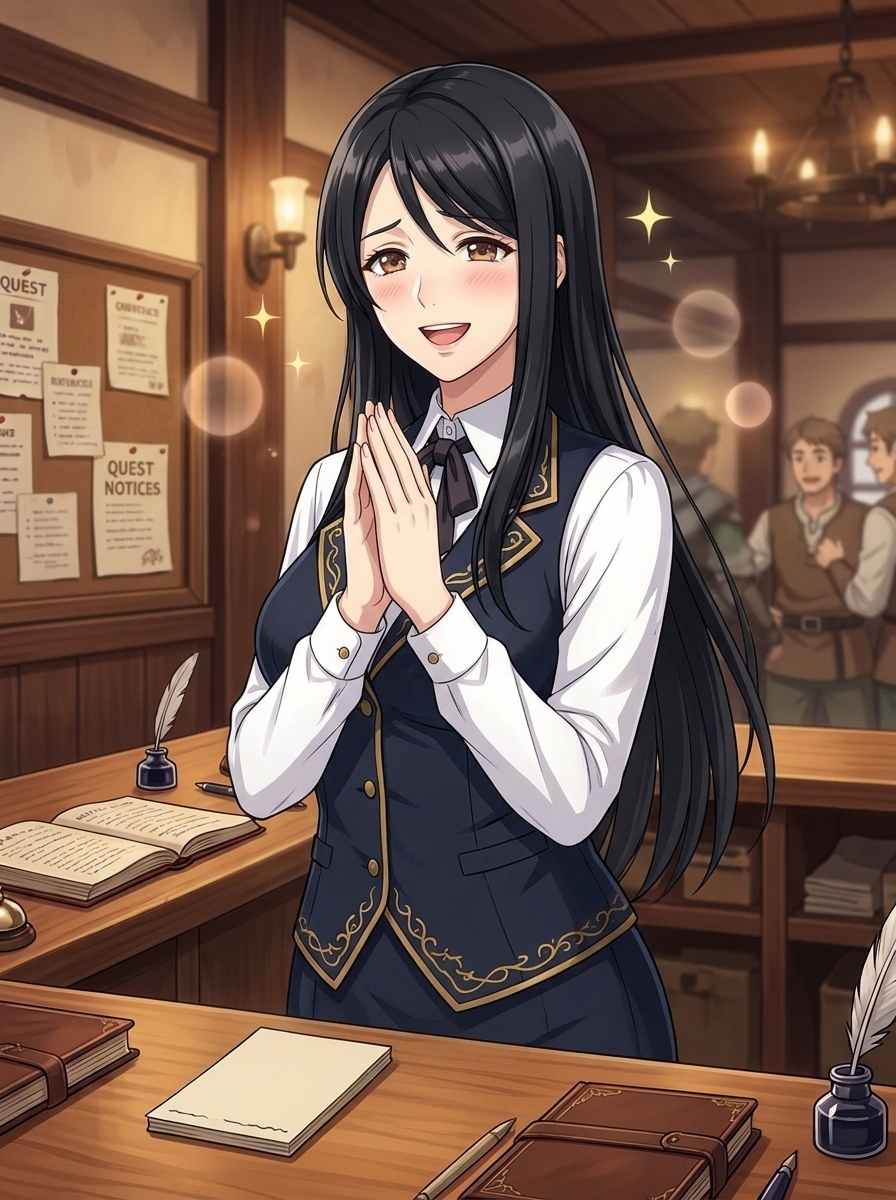
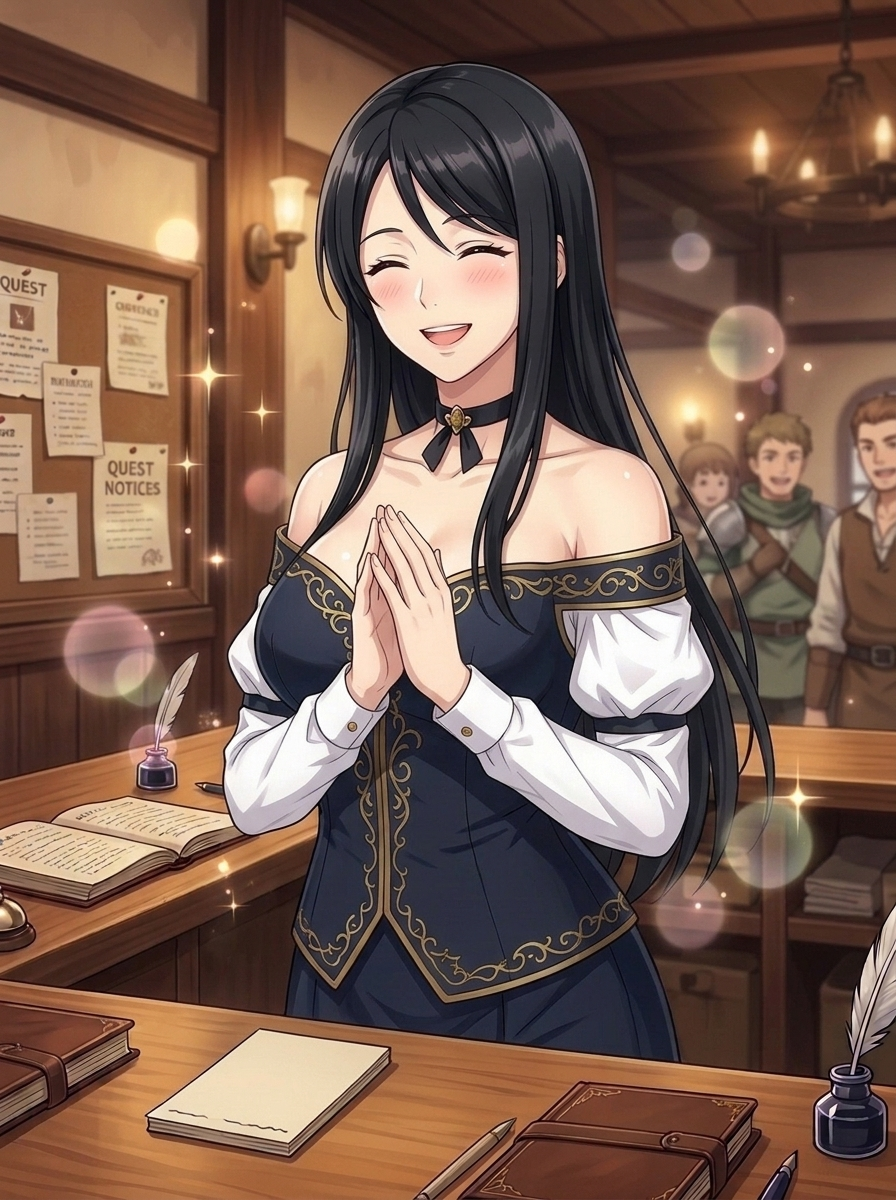
feat: redesign Shiori off-shoulder anime outfit, add speech recognition and multi-tier Gemini failover

diff --git a/js/app.js b/js/app.js
@@ -23,6 +23,24 @@ const App = {
     this.saveData = window.SyncManager.loadLocalSave();
     this.currentDayIndex = this.saveData.progress.currentDay || 1;
 
+    // 自動嘗試向本地伺服器讀取 .env 中的 API Key (本機啟動時自動免手動填入)
+    if (!this.settings.geminiApiKey) {
+      try {
+        const envRes = await fetch("/api/env-config");
+        if (envRes.ok) {
+          const envData = await envRes.json();
+          if (envData.geminiApiKey) {
+            this.settings.geminiApiKey = envData.geminiApiKey;
+            this.settings.geminiModel = this.settings.geminiModel || "gemini-3.5-flash-lite";
+            window.SyncManager.saveSettings(this.settings);
+            console.log("🔑 已自本地 .env 自動載入 GEMINI_API_KEY！");
+          }
+        }
+      } catch (e) {
+        // 在 GitHub Pages 靜態環境上屬正常行為
+      }
+    }
+
     // 2. 載入 5 大資料集
     try {
       const [kanaRes, kanjiRes, vocabRes, grammarRes, schedRes] = await Promise.all([
@@ -612,11 +630,12 @@ const App = {
   },
 
   /**
-   * 詩織櫃台對話介面 (AI Tutor & Chat)
+   * 詩織櫃台對話介面 (AI Tutor & Chat - 具備雙向語音交流能力)
    */
   bindChatEvents() {
     const inputEl = document.getElementById("shioriChatInput");
     const sendBtn = document.getElementById("shioriSendBtn");
+    const micBtn = document.getElementById("shioriMicBtn");
     const openGraderBtn = document.getElementById("openWritingGraderBtn");
 
     const doSend = async () => {
@@ -630,13 +649,18 @@ const App = {
       const tempId = this.appendChatMessage("shiori", "詩織正在為你思考中，請稍候片刻……");
 
       const apiKey = this.settings.geminiApiKey;
-      const model = this.settings.geminiModel || "gemini-2.5-flash";
+      const model = this.settings.geminiModel || "gemini-3.5-flash-lite";
 
       const res = await window.ShioriAI.sendMessage(text, apiKey, model);
 
-      // 更新訊息內容與立繪
-      this.updateChatMessage(tempId, res.formattedHtml || res.rawText);
+      // 更新訊息內容與立繪，並掛載語音播放按鈕
+      this.updateChatMessage(tempId, res.formattedHtml || res.rawText, res.rawText);
       window.ShioriAI.updatePortrait(res.mood || "normal");
+
+      // 自動朗讀回覆（語音對話教學模式）
+      if (window.FuriganaEngine) {
+        window.FuriganaEngine.speak(res.rawText);
+      }
 
       // 增加好感度
       this.awardPlayer({ exp: 8, affection: 1 });
@@ -647,6 +671,45 @@ const App = {
       inputEl.addEventListener("keypress", (e) => {
         if (e.key === "Enter") doSend();
       });
+    }
+
+    // 語音輸入 (麥克風)
+    if (micBtn) {
+      const SpeechRecognition = window.SpeechRecognition || window.webkitSpeechRecognition;
+      if (SpeechRecognition) {
+        const recognition = new SpeechRecognition();
+        recognition.lang = "ja-JP";
+        recognition.interimResults = false;
+        recognition.onstart = () => {
+          micBtn.classList.add("recording");
+          this.showToast("🎙 正在聆聽您的發音/語音...", "info");
+        };
+        recognition.onresult = (event) => {
+          const transcript = event.results[0][0].transcript;
+          if (inputEl) {
+            inputEl.value = transcript;
+            doSend();
+          }
+        };
+        recognition.onend = () => {
+          micBtn.classList.remove("recording");
+        };
+        recognition.onerror = (err) => {
+          micBtn.classList.remove("recording");
+          console.warn("語音輸入異常：", err);
+        };
+        micBtn.addEventListener("click", () => {
+          try {
+            recognition.start();
+          } catch (e) {
+            recognition.stop();
+          }
+        });
+      } else {
+        micBtn.addEventListener("click", () => {
+          this.showToast("您的瀏覽器未支援語音辨識（建議使用 Chrome / Edge）", "warning");
+        });
+      }
     }
 
     if (openGraderBtn) {
@@ -669,10 +732,21 @@ const App = {
     return id;
   },
 
-  updateChatMessage(id, newHtml) {
+  updateChatMessage(id, newHtml, rawText = "") {
     const el = document.getElementById(id);
     if (el) {
-      el.innerHTML = newHtml;
+      el.innerHTML = `
+        <div class="msg-content">${newHtml}</div>
+        <div class="msg-actions" style="margin-top:6px;display:flex;justify-content:flex-end;">
+          <button class="msg-speak-btn" style="background:transparent;border:1px solid var(--border-gold);color:var(--accent-gold);border-radius:12px;font-size:0.75rem;padding:2px 8px;cursor:pointer;">🔊 朗讀語音</button>
+        </div>
+      `;
+      const speakBtn = el.querySelector(".msg-speak-btn");
+      if (speakBtn && window.FuriganaEngine) {
+        speakBtn.addEventListener("click", () => {
+          window.FuriganaEngine.speak(rawText || el.textContent);
+        });
+      }
       const chatContainer = document.getElementById("shioriChatMessages");
       if (chatContainer) chatContainer.scrollTop = chatContainer.scrollHeight;
     }

diff --git a/js/shiori_ai.js b/js/shiori_ai.js
@@ -81,22 +81,39 @@ const ShioriAI = {
   ],
 
   /**
-   * 與詩織發送訊息
+   * 與詩織發送訊息 (具備高可用自動故障轉移 Failover 機制)
    */
-  async sendMessage(userMessage, apiKey, modelName = "gemini-2.5-flash") {
+  async sendMessage(userMessage, apiKey, modelName = "gemini-3.5-flash-lite") {
     // 檢查是否有 API Key
     if (!apiKey || apiKey.trim() === "") {
       return this.generateOfflineReply(userMessage);
     }
 
-    try {
-      return await this.callGeminiApi(userMessage, apiKey.trim(), modelName);
-    } catch (err) {
-      console.warn("Gemini API 連線失敗，切換至離線劇本回覆：", err);
-      const fallback = this.generateOfflineReply(userMessage);
-      fallback.zh += `\n\n*(提示：Gemini 連線暫時異常【${err.message.slice(0, 50)}】，詩織已切換為貼心離線模式囉！)*`;
-      return fallback;
+    // 依序候補：gemini-3.5-flash-lite (500次/天) -> gemini-3.1-flash-lite (500次/天) -> gemma-4-26b-a4b-it (14.4K次/天)
+    const fallbackChain = [
+      modelName || "gemini-3.5-flash-lite",
+      "gemini-3.1-flash-lite",
+      "gemma-4-26b-a4b-it"
+    ];
+    const uniqueModels = [...new Set(fallbackChain)];
+
+    let lastError = null;
+    for (const model of uniqueModels) {
+      try {
+        console.log(`🌸 詩織正在連線模型：${model}...`);
+        const result = await this.callGeminiApi(userMessage, apiKey.trim(), model);
+        result.activeModel = model;
+        return result;
+      } catch (err) {
+        lastError = err;
+        console.warn(`模型 ${model} 呼叫暫時受限，自動切換候補模型：`, err);
+      }
     }
+
+    console.warn("所有線上模型皆暫時繁忙，啟動離線劇本：", lastError);
+    const fallback = this.generateOfflineReply(userMessage);
+    fallback.zh += `\n\n*(提示：Gemini 線上連線目前繁忙，詩織已啟動 100% 離線導師陪伴模式！)*`;
+    return fallback;
   },
 
   /**

diff --git a/server.js b/server.js
@@ -17,6 +17,24 @@ const MIME_TYPES = {
 
 const server = http.createServer((req, res) => {
   let reqPath = decodeURI(req.url.split('?')[0]);
+
+  // 本地端讀取 .env 設定 API
+  if (reqPath === '/api/env-config') {
+    let key = "";
+    const envFile = path.join(__dirname, '.env');
+    if (fs.existsSync(envFile)) {
+      const content = fs.readFileSync(envFile, 'utf-8');
+      for (const line of content.split('\n')) {
+        if (line.trim().startsWith('GEMINI_API_KEY=')) {
+          key = line.trim().split('=', 2)[1].trim();
+        }
+      }
+    }
+    res.writeHead(200, { 'Content-Type': 'application/json; charset=utf-8', 'Access-Control-Allow-Origin': '*' });
+    res.end(JSON.stringify({ geminiApiKey: key }));
+    return;
+  }
+
   if (reqPath === '/' || reqPath === '') reqPath = '/index.html';
   
   const filePath = path.join(__dirname, reqPath);

diff --git a/index.html b/index.html
@@ -15,7 +15,7 @@
   <link rel="apple-touch-icon" href="icons/icon-192.png">
 
   <!-- CSS Stylesheet -->
-  <link rel="stylesheet" href="css/style.css?v=7">
+  <link rel="stylesheet" href="css/style.css?v=8">
 </head>
 <body>
 
@@ -402,12 +402,12 @@
   </div>
 
   <!-- JavaScript 核心腳本 -->
-  <script src="js/furigana.js?v=7"></script>
-  <script src="js/sync.js?v=7"></script>
-  <script src="js/srs.js?v=7"></script>
-  <script src="js/battle.js?v=7"></script>
-  <script src="js/shiori_ai.js?v=7"></script>
-  <script src="js/app.js?v=7"></script>
+  <script src="js/furigana.js?v=8"></script>
+  <script src="js/sync.js?v=8"></script>
+  <script src="js/srs.js?v=8"></script>
+  <script src="js/battle.js?v=8"></script>
+  <script src="js/shiori_ai.js?v=8"></script>
+  <script src="js/app.js?v=8"></script>
 
 </body>
 </html>

diff --git a/sw.js b/sw.js
@@ -1,5 +1,5 @@
 // Service Worker for Nihongo Guild PWA
-const CACHE_NAME = "nihongo-guild-v7";
+const CACHE_NAME = "nihongo-guild-v8";
 const STATIC_ASSETS = [
   "./",
   "./index.html",

diff --git a/scripts/test_gemini_models.py b/scripts/test_gemini_models.py
@@ -1,8 +1,16 @@
 import os
+import sys
 import json
 import urllib.request
 import urllib.error
 import time
+
+if sys.stdout.encoding != 'utf-8':
+    try:
+        sys.stdout.reconfigure(encoding='utf-8')
+        sys.stderr.reconfigure(encoding='utf-8')
+    except Exception:
+        pass
 
 def load_env():
     env_path = os.path.join(os.path.dirname(__file__), "..", ".env")
